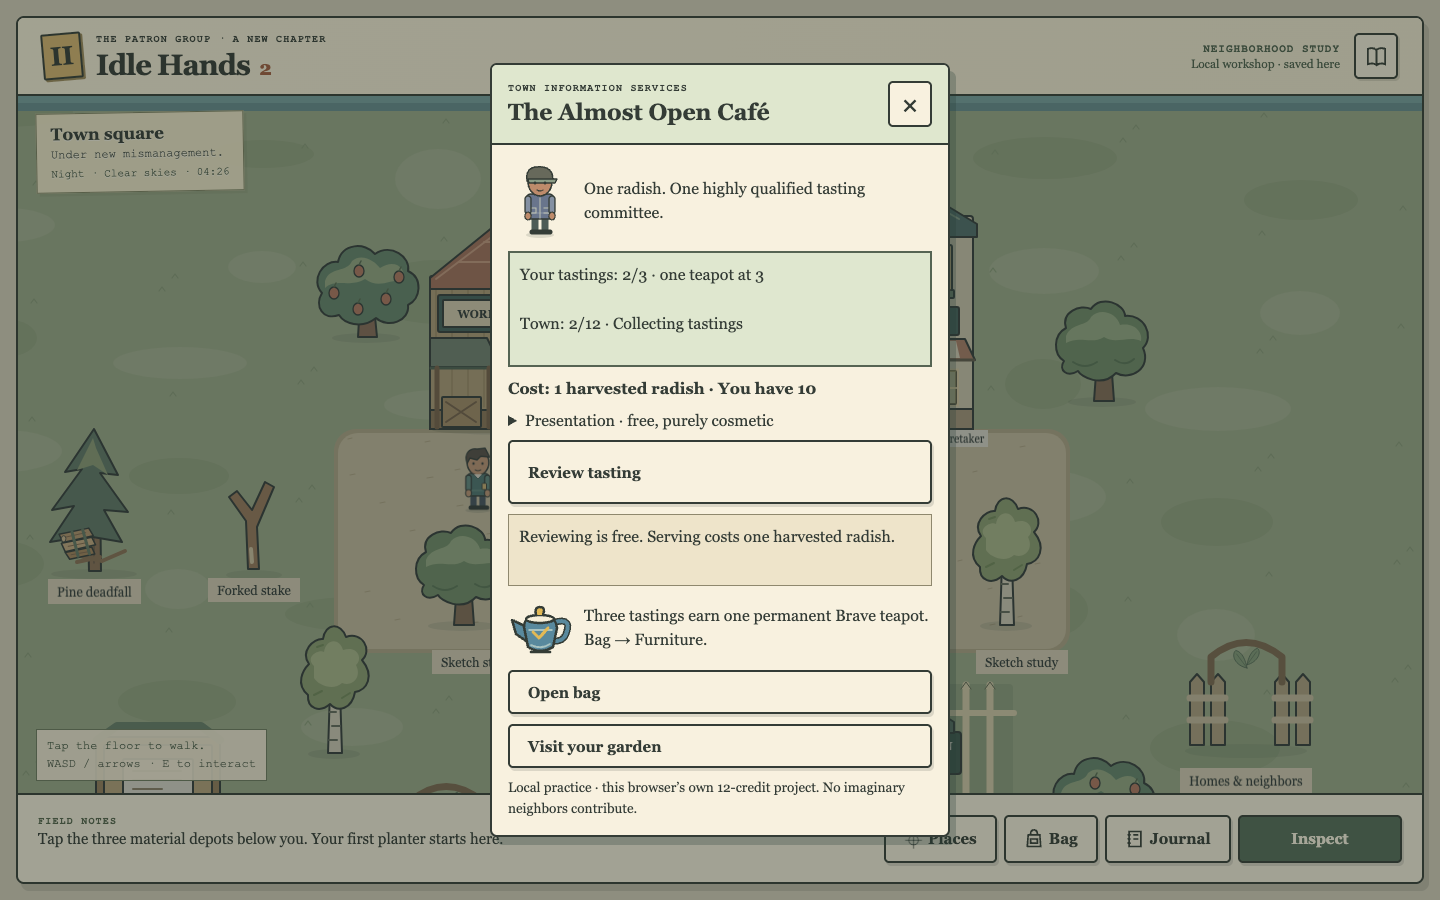
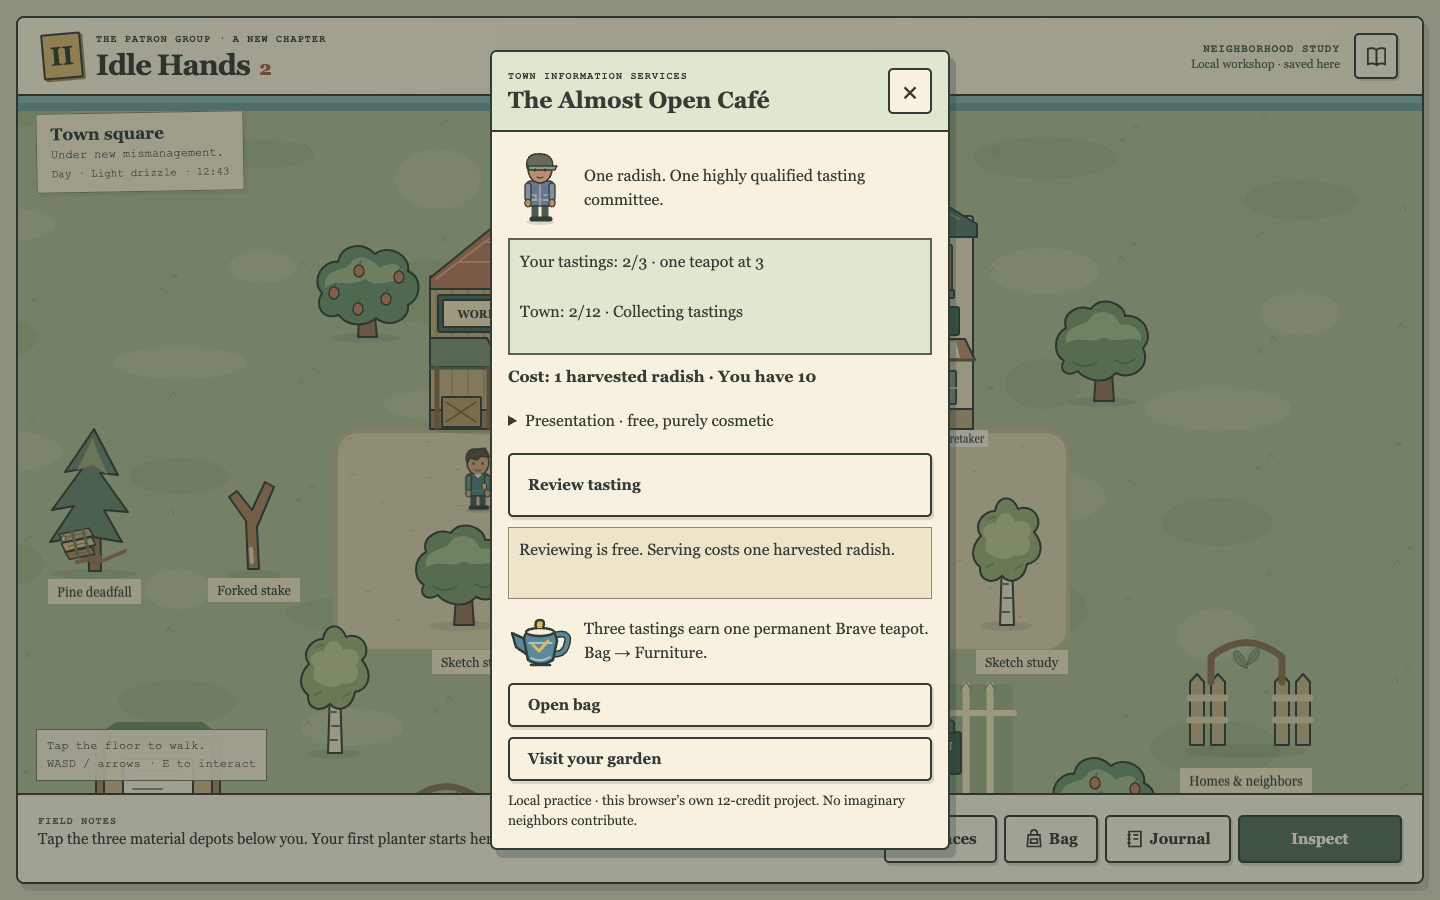
Make café presentation easier to tap

diff --git a/tests/playable-cafe.spec.ts b/tests/playable-cafe.spec.ts
@@ -4,14 +4,14 @@ async function ready(p:Page){await expect.poll(()=>p.evaluate(()=>(window as any
 async function inject(p:Page,count:number){const f=tastingFixture(Date.now(),count);await p.addInitScript(s=>{if(!localStorage.getItem('ih2:workshop:v2'))localStorage.setItem('ih2:workshop:v2',JSON.stringify(s));localStorage.setItem('ih2:pilot-position:v1',JSON.stringify({version:1,room:'square',position:{x:30,y:22}}));},f.state);return f;}
 const state=(p:Page)=>p.evaluate(()=>(window as any).__pilot.workshop());
 async function open(p:Page){await p.getByRole('button',{name:'Inspect Café tasting counter',exact:true}).click();await expect(p.locator('[data-cafe-panel]')).toBeVisible();}
-async function confirm(p:Page){await p.locator('[data-cafe-review]').click();await expect(p.locator('[data-cafe-confirm]')).toBeEnabled();await p.locator('[data-cafe-confirm]').click();}
+async function confirm(p:Page){expect((await p.locator('[data-cafe-panel] summary').boundingBox())!.height).toBeGreaterThanOrEqual(44);await p.locator('[data-cafe-review]').click();await expect(p.locator('[data-cafe-confirm]')).toBeEnabled();await p.locator('[data-cafe-confirm]').click();}
 
 test('fresh native phone finds actual café in Places, walks there and sees a clear no-radish route',async({page})=>{
  await page.setViewportSize({width:360,height:640});await page.goto('/');await ready(page);await page.locator('#places').click();const destination=page.locator('[data-destination=cafe]');const detail=page.locator('details').filter({has:destination});if(await detail.count())await detail.locator('summary').click();await destination.click();await page.getByRole('button',{name:'Inspect Café tasting counter',exact:true}).click();await expect(page.locator('[data-cafe-panel]')).toBeVisible({timeout:15000});expect((await state(page)).garden.produce.radish).toBe(0);await expect(page.locator('[data-cafe-review]')).toBeDisabled();await expect(page.locator('[data-cafe-cost]')).toContainText('You have 0');await page.screenshot({path:out+'/cafe-live-fresh-phone.png'});
 });
 
 test('native local review and cancel are free; one serve saves the exact cost/cooldown through reload',async({page})=>{
- await inject(page,0);await page.goto('/');await ready(page);await open(page);const before=await state(page);await page.locator('select[aria-label="Radish presentation"]').evaluate((e:HTMLSelectElement)=>e.closest('details')!.open=true);await page.getByRole('combobox',{name:'Radish presentation'}).selectOption('formal');await page.locator('[data-cafe-review]').click();await page.locator('[data-cafe-cancel]').click();expect(await state(page)).toEqual(before);await confirm(page);await expect.poll(async()=>(await state(page)).cafe.totalServes).toBe(1);let s=await state(page);expect(s.garden.produce.radish).toBe(11);expect(s.garden.consumed.cafe.radish).toBe(1);expect(s.cafe.nextServeAt-s.cafe.lastServeAt).toBe(4*3600_000);await expect(page.locator('[data-cafe-review]')).toBeDisabled();await expect(page.locator('[data-cafe-status]')).toContainText('Next tasting in');const raw=await page.evaluate(()=>localStorage.getItem('ih2:workshop:v2'));await page.reload();await ready(page);expect((await state(page)).cafe.totalServes).toBe(1);expect(await page.evaluate(()=>localStorage.getItem('ih2:workshop:v2'))).toBe(raw);
+ await inject(page,0);await page.goto('/');await ready(page);await open(page);const before=await state(page);await page.locator('select[aria-label="Radish presentation"]').evaluate((e:HTMLSelectElement)=>e.closest('details')!.open=true);await page.getByRole('combobox',{name:'Radish presentation'}).selectOption('formal');const disclosure=page.locator('[data-cafe-panel] summary');expect((await disclosure.boundingBox())!.height).toBeGreaterThanOrEqual(44);await page.locator('[data-cafe-review]').click();await page.locator('[data-cafe-cancel]').click();expect(await state(page)).toEqual(before);await confirm(page);await expect.poll(async()=>(await state(page)).cafe.totalServes).toBe(1);let s=await state(page);expect(s.garden.produce.radish).toBe(11);expect(s.garden.consumed.cafe.radish).toBe(1);expect(s.cafe.nextServeAt-s.cafe.lastServeAt).toBe(4*3600_000);await expect(page.locator('[data-cafe-review]')).toBeDisabled();await expect(page.locator('[data-cafe-status]')).toContainText('Next tasting in');const raw=await page.evaluate(()=>localStorage.getItem('ih2:workshop:v2'));await page.reload();await ready(page);expect((await state(page)).cafe.totalServes).toBe(1);expect(await page.evaluate(()=>localStorage.getItem('ih2:workshop:v2'))).toBe(raw);
 });
 
 for(const shape of [{name:'desktop',width:1440,height:900},{name:'phone320',width:320,height:640},{name:'short200',width:844,height:390}])test('third confirmed tasting: '+shape.name+' earned receipt, stable controls and visible teapot in Bag',async({page})=>{

diff --git a/src/ui/cafe.css b/src/ui/cafe.css
@@ -1,3 +1,5 @@
 .cafe-panel{display:grid;gap:12px;padding:16px;max-width:100%;box-sizing:border-box}.cafe-panel p{margin:0;overflow-wrap:anywhere}.cafe-lead{display:flex;align-items:center;gap:12px}.cafe-actor{width:64px;height:80px;flex:0 0 64px;background-size:320px 320px;background-position:-256px 0}.cafe-progress{display:grid;gap:8px;background:#dfe7cf;border:2px solid #566453;padding:12px}.cafe-cost{font-weight:bold}.cafe-warning{border-left:4px solid #a16035;padding-left:10px}.cafe-actions{display:grid;gap:8px;min-height:52px}.cafe-panel button,.cafe-panel select{min-height:44px;max-width:100%;white-space:normal}.cafe-panel [hidden]{display:none!important}.cafe-status{min-height:3em;padding:10px;background:#eee4ca;border:1px solid #8f886e}.cafe-reward{display:flex;gap:12px;align-items:center}.cafe-reward img{flex:0 0 64px;object-fit:contain}.cafe-note{font-size:.85rem}.cafe-earned img{animation:cafe-earned .72s ease-out}@keyframes cafe-earned{50%{transform:translateY(-6px) rotate(-5deg)}}@media(prefers-reduced-motion:reduce){.cafe-earned img{animation:none}}@media(max-height:450px){.cafe-panel{gap:8px;padding:10px}.cafe-lead .cafe-actor{display:none}}
 .cafe-panel{padding:0;gap:10px}.cafe-panel .destination{margin:0}.cafe-actions{grid-template-columns:minmax(0,1fr) minmax(0,1fr);min-height:64px}.cafe-actions [data-cafe-review]{grid-column:1/-1}.cafe-actions .destination{min-height:64px;height:100%}.cafe-status{min-height:4.5em}.cafe-progress p{min-height:3em}
 #panel-body .cafe-panel p{margin:0}.cafe-progress{padding:10px;gap:6px}.cafe-progress p{min-height:2.7em}.cafe-status{box-sizing:border-box}.cafe-panel [data-cafe-bag]:focus-visible{outline:3px solid #9c4b32;outline-offset:3px}
+
+.cafe-panel summary{min-height:44px;box-sizing:border-box;display:list-item;padding:12px 0;cursor:pointer}.cafe-panel summary:focus-visible{outline:3px solid #b8653e;outline-offset:2px}

diff --git a/docs/evidence/IH2-111/REPORT.md b/docs/evidence/IH2-111/REPORT.md
@@ -33,3 +33,5 @@ Selected actual compiled screenshots: [desktop counter](desktop-counter.png), [p
 [Final V4 Terra regression](terra-final-review.md) confirms actual desktop/320reward/Bag and visible unsupported-save warning with exact raw preservation. V4compiled214files are the final CI comparison reference.
 
 First hosted candidate1912835/run43515772964passed431domain checks but stopped browser-shard1on an existing rain-resize sampling race (camera zoom assigned before post-render DOM alignment). The check now awaits two actual animation frames after the expected zoom, preserving every exact period/phase/matrix/coverage assertion and all153cases. Targeted native rain check passes; no game code or214compiled bytes changed for this correction. The failed head is unaccepted; the new head requires all four jobs again. See ci-attempts.json.
+
+Final phone QA follow-up: initial PR42/main50fbcbbd passed all4jobs each431/153and exact V4artifacts, but was not promoted to the preview. The optional presentation summary measured19px; V5adds44pxminimum and a visible focus ring. Existing café cases now check the rendered target before confirmation. Terra V5four-size review passed disclosure keyboard/tap/free-state behavior and earned Bag/teapot flows, including short200scrolling. All7focused café cases pass. The final follow-up requires normal exact-head/main/artifact gates again. See touch-target-followup.md and terra-touch-review.md.

diff --git a/docs/evidence/IH2-111/terra-touch-review.md b/docs/evidence/IH2-111/terra-touch-review.md
@@ -1,0 +1,7 @@
+# Frozen V5 café review
+
+Actual LOCAL client with synthetic third-tasting fixture, elapsed time, stock and counter position in isolated Chrome contexts. Desktop 1440×900, emulated 360×640 and 320×640, and 844×390 with 200% root text; not physical-device testing. No API interception or real profile.
+
+The presentation summary measured 44px high at desktop and 360, 62px at 320 and 96px at 200% text; all widths exceeded 44px. Keyboard Tab showed a visible 3px focus outline. Enter opened the disclosure and an emulated tap closed it, without changing the workshop state. See `*-focus.png` and `disclosure.json`.
+
+At all four sizes, review and third confirmation yielded three serves and one teapot; the earned/Open bag action was focused and fully visible. Opening Bag and scrolling to the actual illustrated teapot showed 1 owned, 0 placed, and a loaded image. No page errors; Escape closed Bag. Added height did not hide the review control in the normal-height captures, or the earned action in any tested layout. The short enlarged layout requires panel scrolling as expected. No blocker observed in this narrow check; error states, physical devices and screen readers were not tested. Contexts closed.

diff --git a/docs/idle-hands-2/CURRENT_SESSION.md b/docs/idle-hands-2/CURRENT_SESSION.md
@@ -1,3 +1,7 @@
+#111phone touch-target follow-up — fix/cafe-presentation-target
+
+Initial integration PR42/main50fbcbbd passed all exact-head/main431system/153browser checks and V4artifacts; actual4175/4176remain unchanged pending final UI acceptance. Final native QA found optional presentation disclosure19px; V5adds44px target/focus without state/economy/server/art changes. Seven focused café cases and Terra V5desktop/360/320/short200disclosure/reward/Bag review pass. Final follow-up PR/main/actual-preview gates still required. Read111report/touch-target-followup. Do not use old canonical090runtime. After acceptance resolve chore/playable-cafe-closeout-2026-11-13.
+
 #111current continuation — feat/playable-cafe
 
 After acceptance, the exact verification/preview closeout is backed up on `chore/playable-cafe-closeout-2026-11-13`. Fetch and verify that branch before assuming this pre-acceptance checkpoint is current. Its existence/status is not implied until the recorded gates actually pass.

diff --git a/docs/evidence/IH2-111/touch-target-followup.md b/docs/evidence/IH2-111/touch-target-followup.md
@@ -1,0 +1,5 @@
+# Presentation disclosure touch target
+
+Initial integration PR42/main50fbcbbd passed all exact-head and main431system/153browser checks and artifact verification, with the V4client. It was not promoted to the accepted preview. A final native phone measurement found the optional free-presentation disclosure was19px tall, below the planned44px target. This follow-up adds a44px minimum and visible keyboard focus, without changing economy/state/timers/server/art. Existing café cases now measure the rendered disclosure before review/confirmation; case count remains153.
+
+The final V5 compiled client and actual desktop/360/320/short200 layout/reward/disclosure checks must pass before preview update. PR42's successful V4proof remains historical; final follow-up exact-head/main/artifact checks and actual matched preview acceptance still apply. No source gate is waived for this small UI correction.
